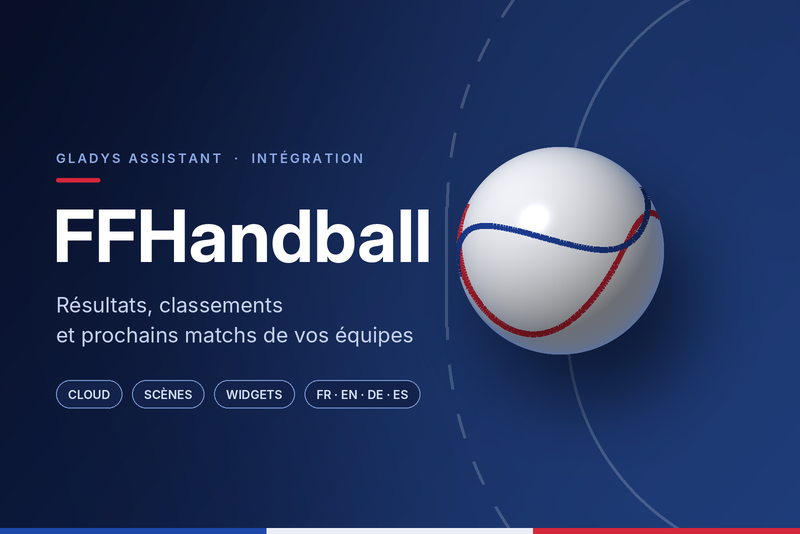
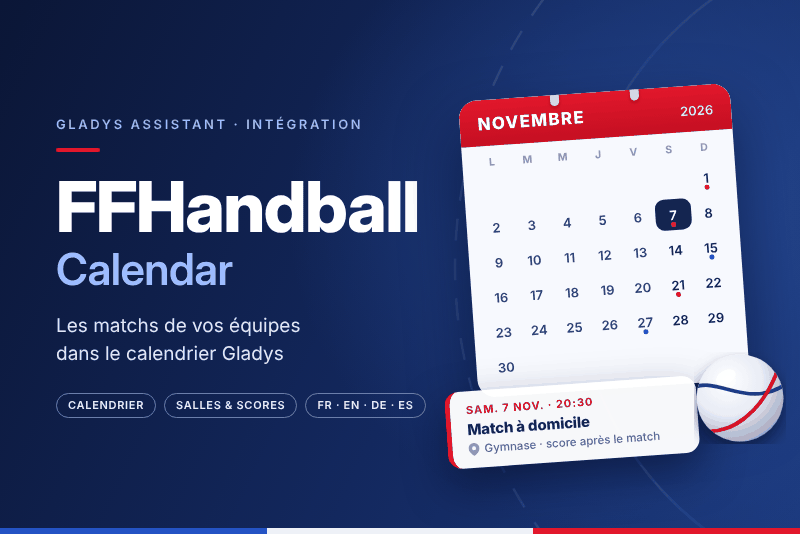
Give the calendar integration a cover of its own
It shipped with the cover of gladys-ffhandball. Same family (navy court,
red accent, blue-white-red line, Inter), but a match calendar: a month
page with the match days marked, an event card and a small handball.
800x534, 109 KB, under the store's 150 KB.

Claude-Session: https://claude.ai/code/session_017AAiz4jNZ51d8Bx8xp8Jt5

diff --git a/CHANGELOG.md b/CHANGELOG.md
@@ -10,6 +10,11 @@ the notes of the version's GitHub Release.
 
 ## [Unreleased]
 
+### Changed
+
+- Store: a cover of its own (a match calendar), no longer the one of the FFHandball
+  integration.
+
 ## [1.0.1] - 2026-10-26
 
 ### Added
